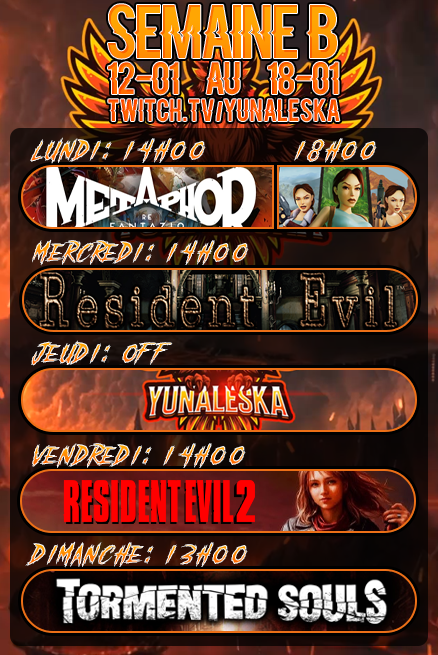
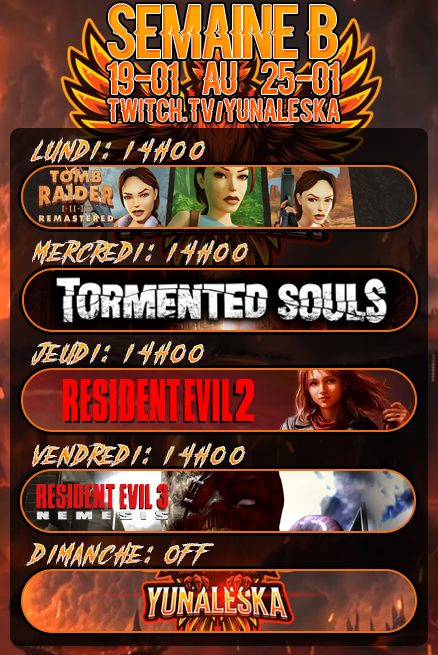
updated schedule and achievements

diff --git a/assets/scripts/updates.js b/assets/scripts/updates.js
@@ -1,25 +1,20 @@
 export const updates = [
   {
-    version: "1.4",
-    date: "12-01-2026",
+    version: "1.41",
+    date: "19-01-2026",
     messages: {
       fr: {
         features: [
-          "○ Planning de la semaine du 12 janvier 2026",
+          "○ Planning de la semaine du 19 janvier 2026",
 
-          "○ Mise à jour des succès Dead Island 2 (Steam)",
-          "○ Mise à jour des succès The Spell Brigade (Steam)",
-          "○ Mise à jour des succès Sworn (100%) (Steam)",
-          "○ Mise à jour des succès Final Fantasy VII Remake Intergrade (Steam)",
           "○ Mise à jour des succès Temtem Swarm (Steam)",
           "○ Mise à jour des succès Tomb Raider I•II•III Remastered (Steam)",
-
-          "○ Ajout de Shape of Dreams et de ses succès (Steam)",
-          "○ Ajout de Nexomon et de ses succès (Steam)"
+          "○ Mise à jour des succès Shape of Dreams (Steam)",
+          "○ Mise à jour des succès Nexomon (Steam)",
+          "○ Mise à jour des succès Metaphor: ReFantazio (Steam)"
         ],
         fixes: [
-          "○ Bon nom du jeu sur Tomb Raider IV•V•VI (I - III auparavant)",
-          "○ Changement de nom Tomb Raider I - 3 → I•II•III Remastered"
+          
         ]
       },
       en: {

diff --git a/assets/scripts/steam.js b/assets/scripts/steam.js
@@ -63,7 +63,7 @@ function updateCompletionTimeline(games) {
     }
 
     if (lastEl) {
-        lastEl.textContent = `Dernier 100% : Bongo Cat`;
+        lastEl.textContent = `Dernier 100% : SWORN`;
     }
 }
 
